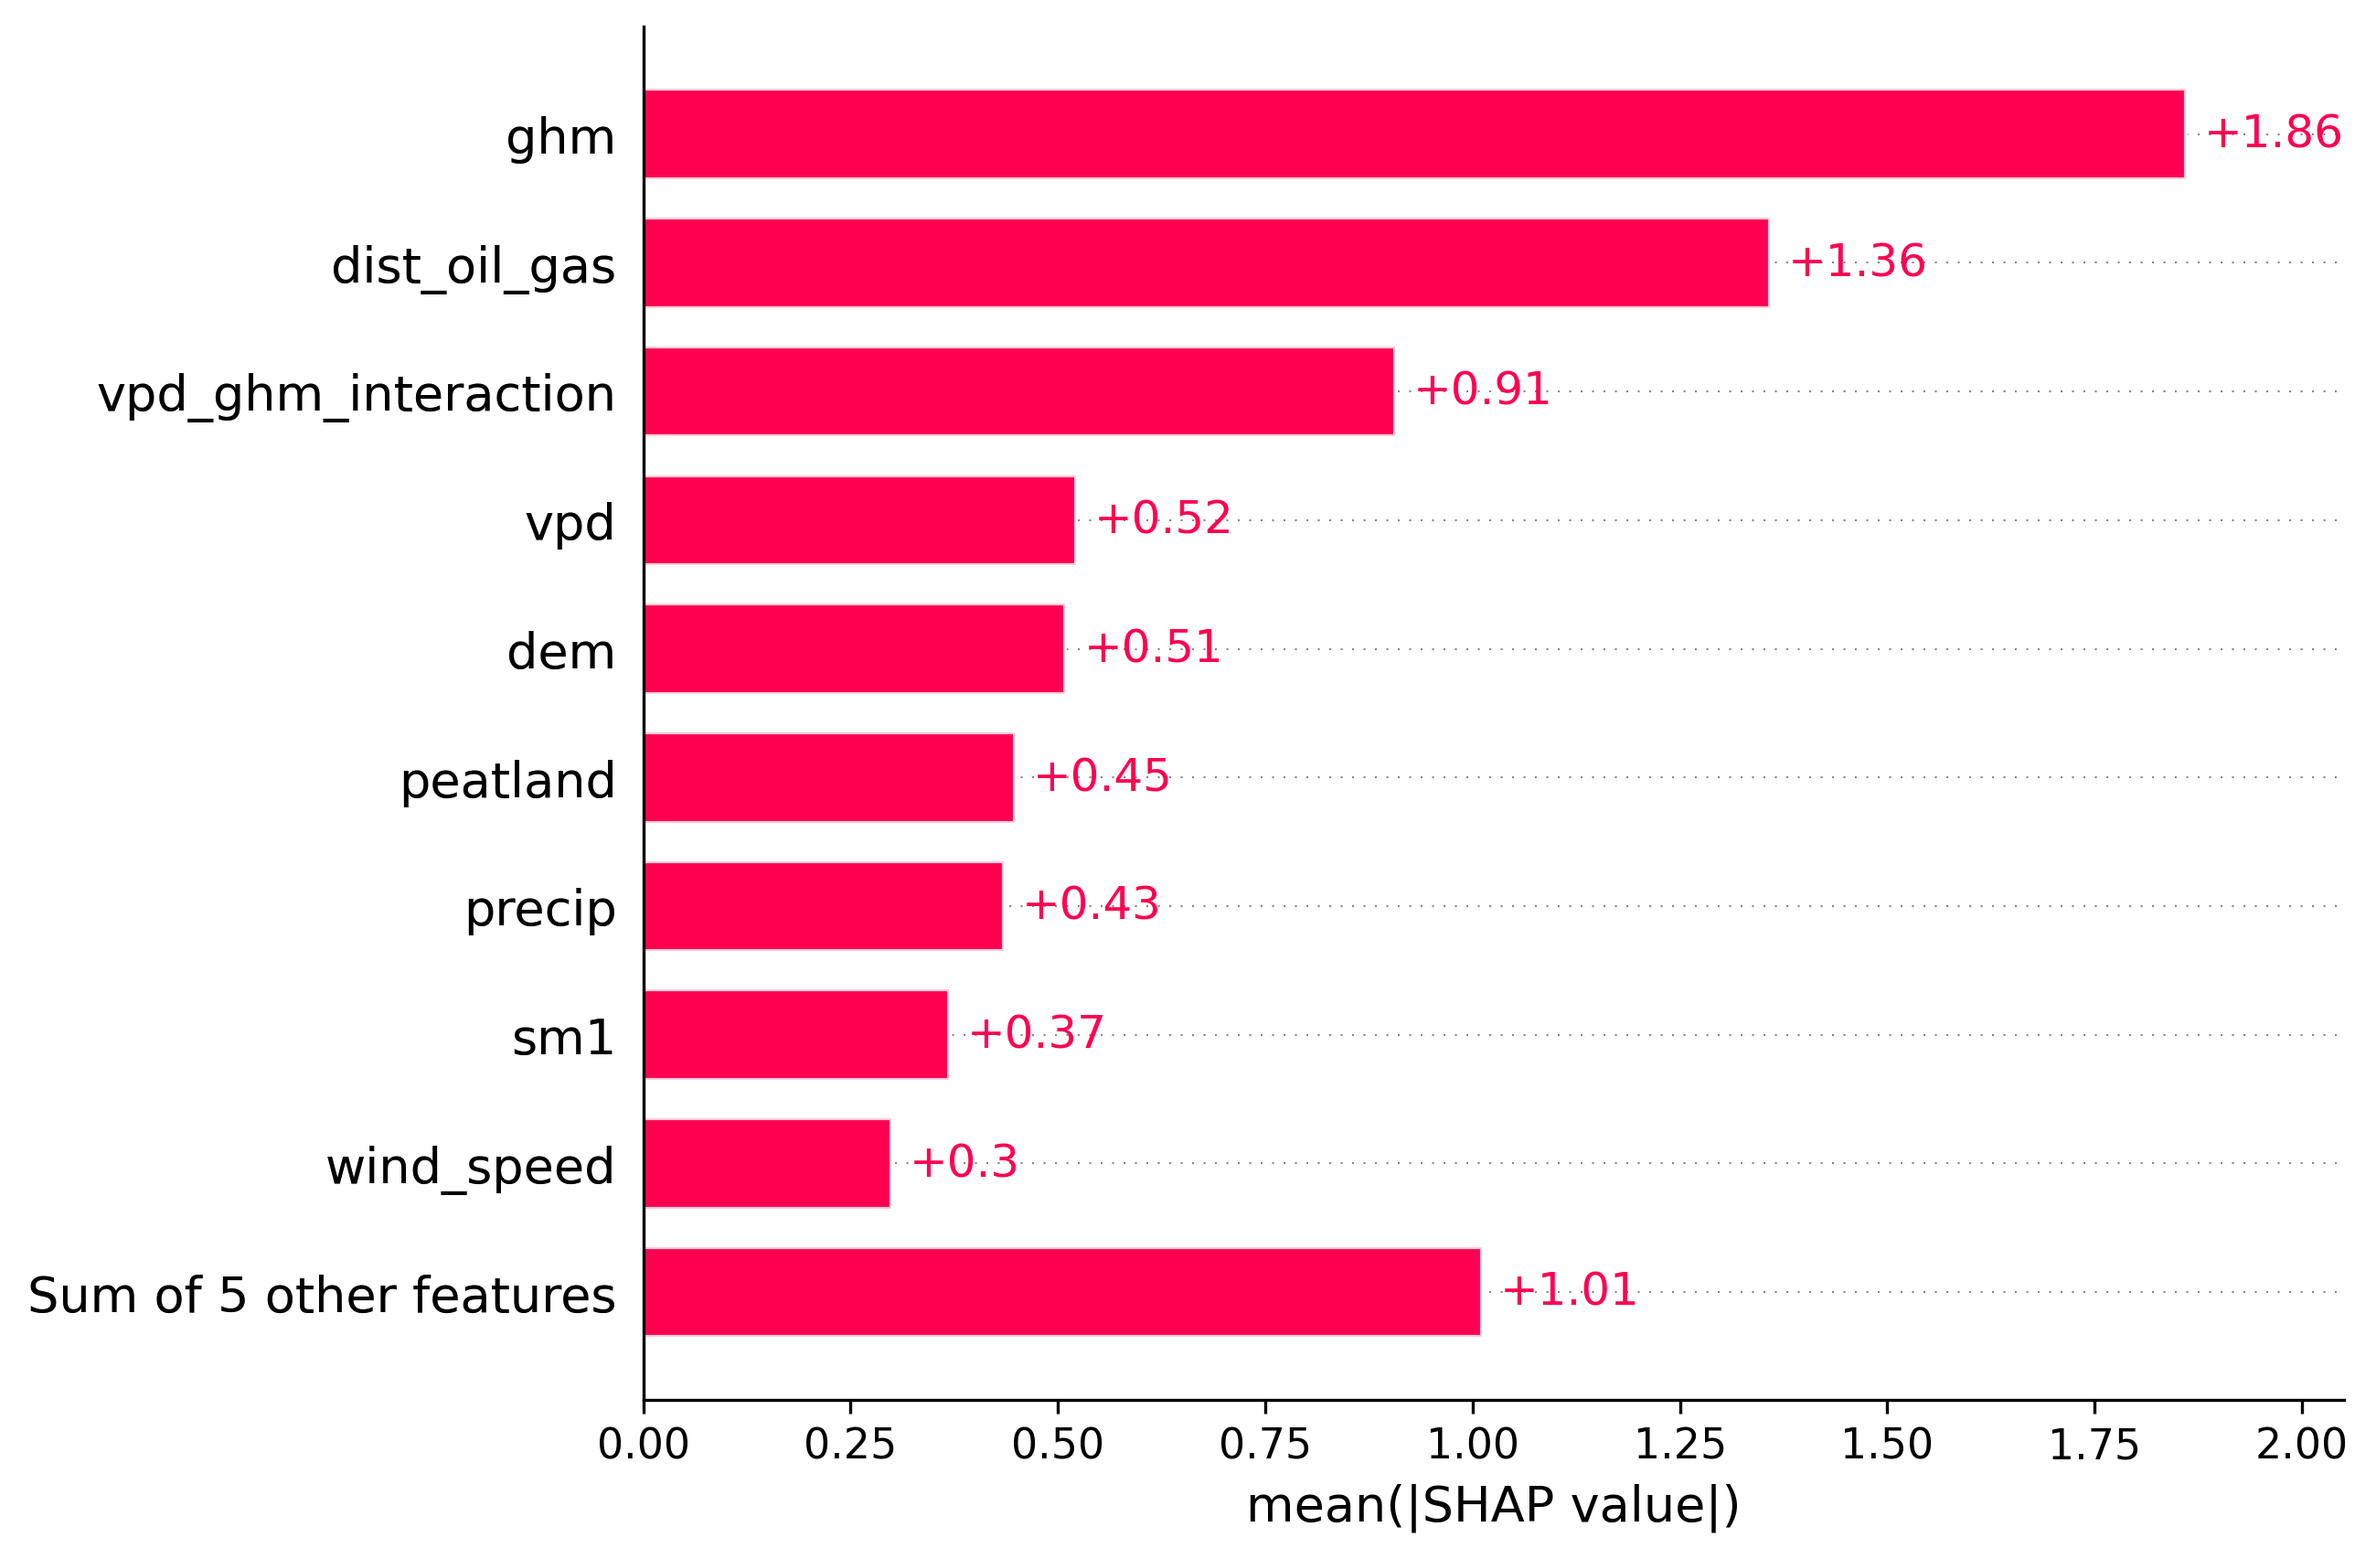
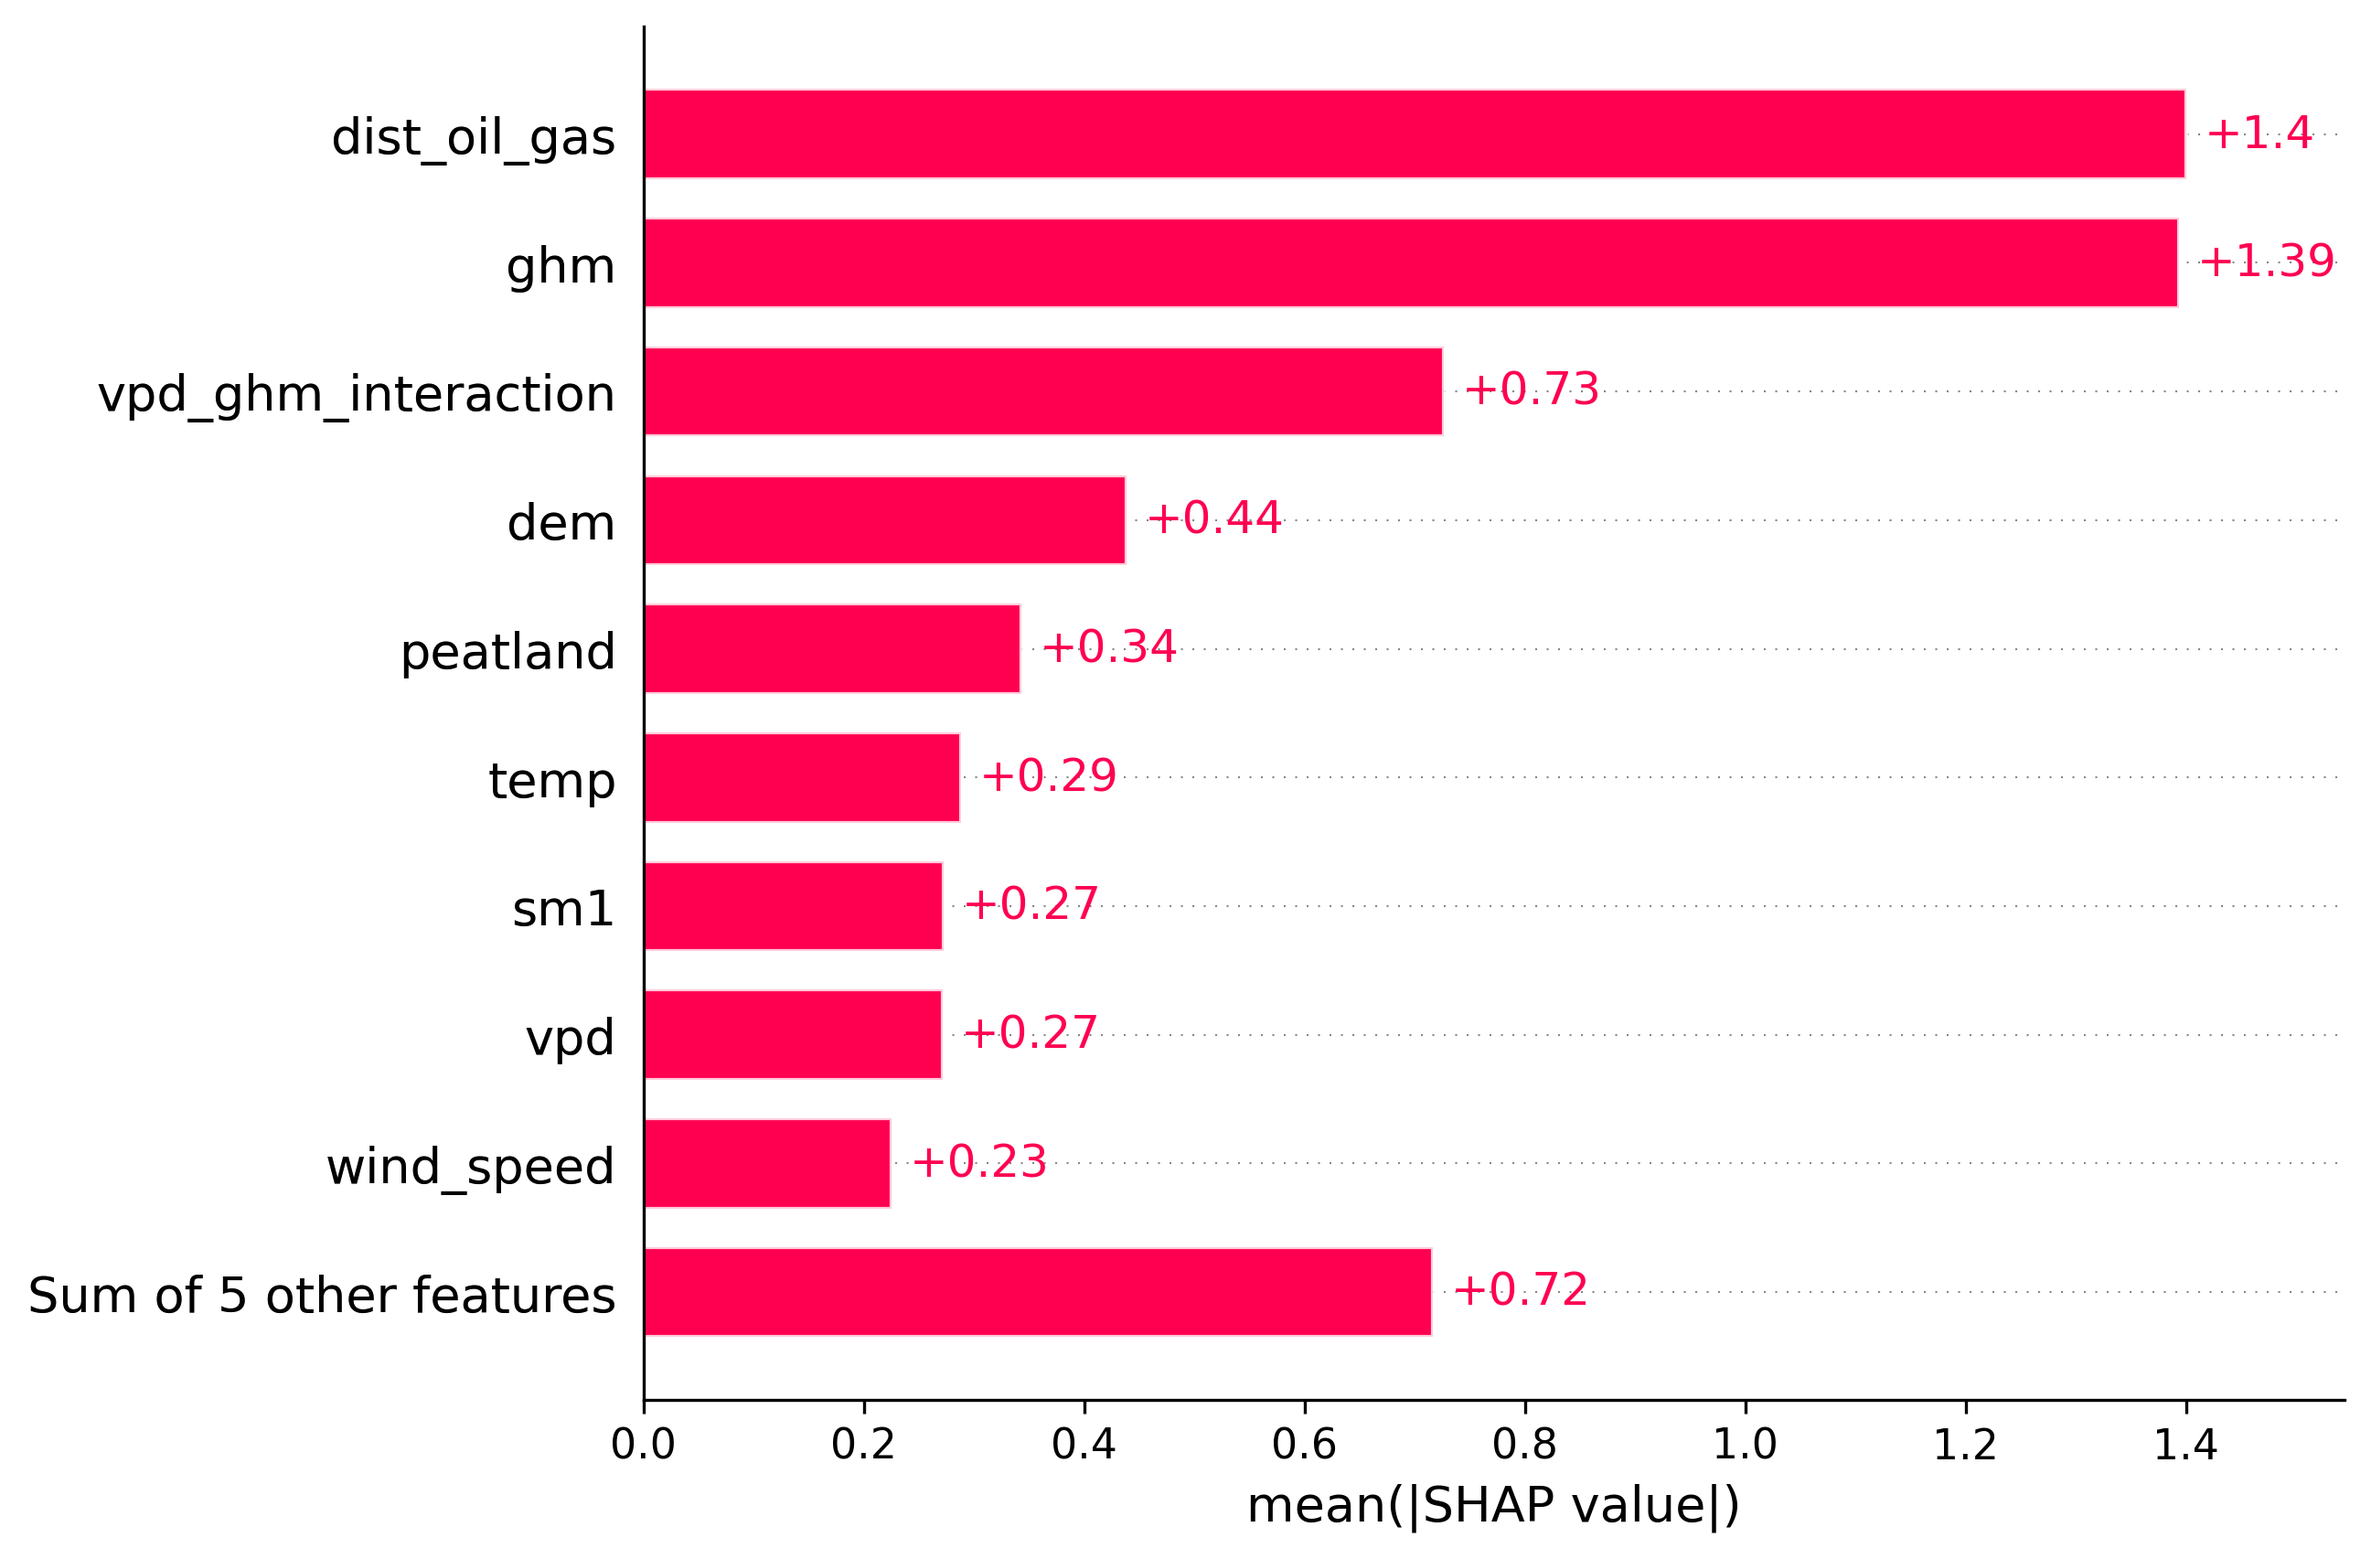
divide features into groups

diff --git a/src/pipelines/wildfire_pipeline.py b/src/pipelines/wildfire_pipeline.py
@@ -17,17 +17,22 @@ class WildfirePipeline:
     def __init__(
         self, model_factory, use_lag: bool, 
         tune: bool, params: dict = None, downsample_ratio: int = 10,
-        use_smote: bool = False, smote_ratio: float = 0.5
+        use_smote: bool = False, smote_ratio: float = 0.5, feature_group: str = 'all',
+        use_compounding_features: bool = False
     ):
         self.model_factory = model_factory
         self.use_lag = use_lag
         self.tune = tune
         self.params = params or {}
-        self.downsample_ratio = downsample_ratio
         self.use_smote = use_smote
+        self.use_compounding_features = use_compounding_features
+        
+        self.downsample_ratio = downsample_ratio
         self.smote_ratio = smote_ratio
+        
         self.features = None
         self.model = None
+        self.feature_group = feature_group
         
     def load_data(self):
         df = data_loader.load_master_dataset()
@@ -36,33 +41,41 @@ class WildfirePipeline:
         return data_loader.prepare_features(df)
     
     def build_features(self):
-        base = [
-            "dem", 
-            "landcover", 
-            "ghm", 
-            "slope", 
-            "sm1", 
-            "wind_speed", 
-            "pop_density", 
-            "dist_oil_gas", 
-            "peatland",
-            "month"
+        base = [ ... ]
+        extra = [ ... ]
+        
+        all_features = base + extra
+        
+        natural_features = [
+            "dem", "landcover", "slope", "sm1", 
+            "wind_speed", "peatland", "month",
+            "month_sin", "month_cos"
+        ]
+        
+        anthropogenic_features = [
+            "ghm", "dist_oil_gas", "pop_density"
+        ]
+        
+        compounding_features = [
+            "vpd_ghm_interaction", "ghm_windspeed_interaction"
         ]
         
         if self.use_lag:
-            extra = [
-                "temp_lag1",
-                "vpd_lag1",
-                "precip_lag1",
-                "vpd_ghm_interaction_lag1",
-            ]
+            natural_features.extend(["temp_lag1", "vpd_lag1", "precip_lag1"])
         else:
-            extra = [
-                "temp",
-                "vpd",
-                "precip",
-                "vpd_ghm_interaction"
-            ]
+            natural_features.extend([
+                "temp", "vpd", "precip", "temp_precip_interaction",
+            ])
+            
+        if self.use_compounding_features:
+            self.features = [f for f in all_features if f in compounding_features]
+                        
+        if self.feature_group == "natural":
+            self.features = [f for f in all_features if f in natural_features]
+        elif self.feature_group == "anthropogenic":
+            self.features = [f for f in all_features if f in anthropogenic_features]
+        else:
+            self.features = all_features
             
         self.features = base + extra
         
@@ -139,15 +152,35 @@ class WildfirePipeline:
                 self.model = XGBClassifier(**model_params)
         else:
             self.model = self.model_factory()
-            
-        self.model.fit(X_train, y_train)
+        class CalibratedXGB:
+            def __init__(self, base_model, calibrator):
+                self.base_model = base_model
+                self.calibrator = calibrator
+                self.feature_importances_ = base_model.feature_importances_
+
+            def predict_proba(self, X):
+                return self.calibrator.predict_proba(X)
+        self.base_model = self.model
+        from sklearn.calibration import CalibratedClassifierCV
+        
+        self.base_model.fit(X_train, y_train)
+        calibrator = CalibratedClassifierCV(
+            estimator=self.base_model,
+            method='sigmoid',
+            cv=3
+        )
+        calibrator.fit(X_val, y_val)
+
+        self.model = CalibratedXGB(self.base_model, calibrator)
         
         X_test = test[self.features]
         y_test = test['fire']
-        optimal_threshold = tr.evaluate_model(self.model, X_test, y_test, self.features)
 
+        probs = self.model.predict_proba(X_test)[:, 1]
+
+        optimal_threshold = tr.evaluate_model(self.model, X_test, y_test, self.features)
         test_probs = self.model.predict_proba(X_test)[:, 1]
-        test_preds = (test_probs >= optimal_threshold).astype(int)
+        test_preds = (test_probs >= optimal_threshold).astype(int)        
         
         self._evaluate_by_year_type(test, test_probs, optimal_threshold)
         tr.generate_evaluation_artifacts(

diff --git a/src/data/data_loader.py b/src/data/data_loader.py
@@ -62,21 +62,28 @@ def load_master_dataset():
     df = df[~df['landcover'].isin(cfg.NON_BURNABLE_CLASSES_LC)]
     return df
 
+def create_new_features(df: pd.DataFrame):
+    df["vpd_ghm_interaction"] = df["vpd"] * df["ghm"]
+    df["month"] = df["valid_time"].dt.month
+    df["month_sin"] = np.sin(2 * np.pi * df['month'] / 12)
+    df["month_cos"] = np.cos(2 * np.pi * df['month'] / 12)
+    df["temp_precip_interaction"] = df["temp"] * df["precip"]
+    df["ghm_windspeed_interaction"] = df["ghm"] * df["wind_speed"]
+    return df
+    
+
 def create_lag_features(df: pd.DataFrame):
     df["vpd_lag1"] = df.groupby(["y", "x"])["vpd"].shift(1)
     df["temp_lag1"] = df.groupby(["y", "x"])["temp"].shift(1)
     df["precip_lag1"] = df.groupby(["y", "x"])["precip"].shift(1)
     df["vpd_ghm_interaction_lag1"] = df["vpd_lag1"] * df["ghm"]
-    df["vpd_ghm_interaction"] = df["vpd"] * df["ghm"]
-    df["month"] = df["valid_time"].dt.month
-    df["month_sin"] = np.sin(2 * np.pi * df['month'] / 12)
-    df["month_cos"] = np.cos(2 * np.pi * df['month'] / 12)
     
     return df
 
 def prepare_features(df: pd.DataFrame):
     df = df.sort_values(["y", "x", "valid_time"])        
     df = create_lag_features(df)
+    df = create_new_features(df)
     
     df = df.dropna(subset=[
         "temp_lag1",
